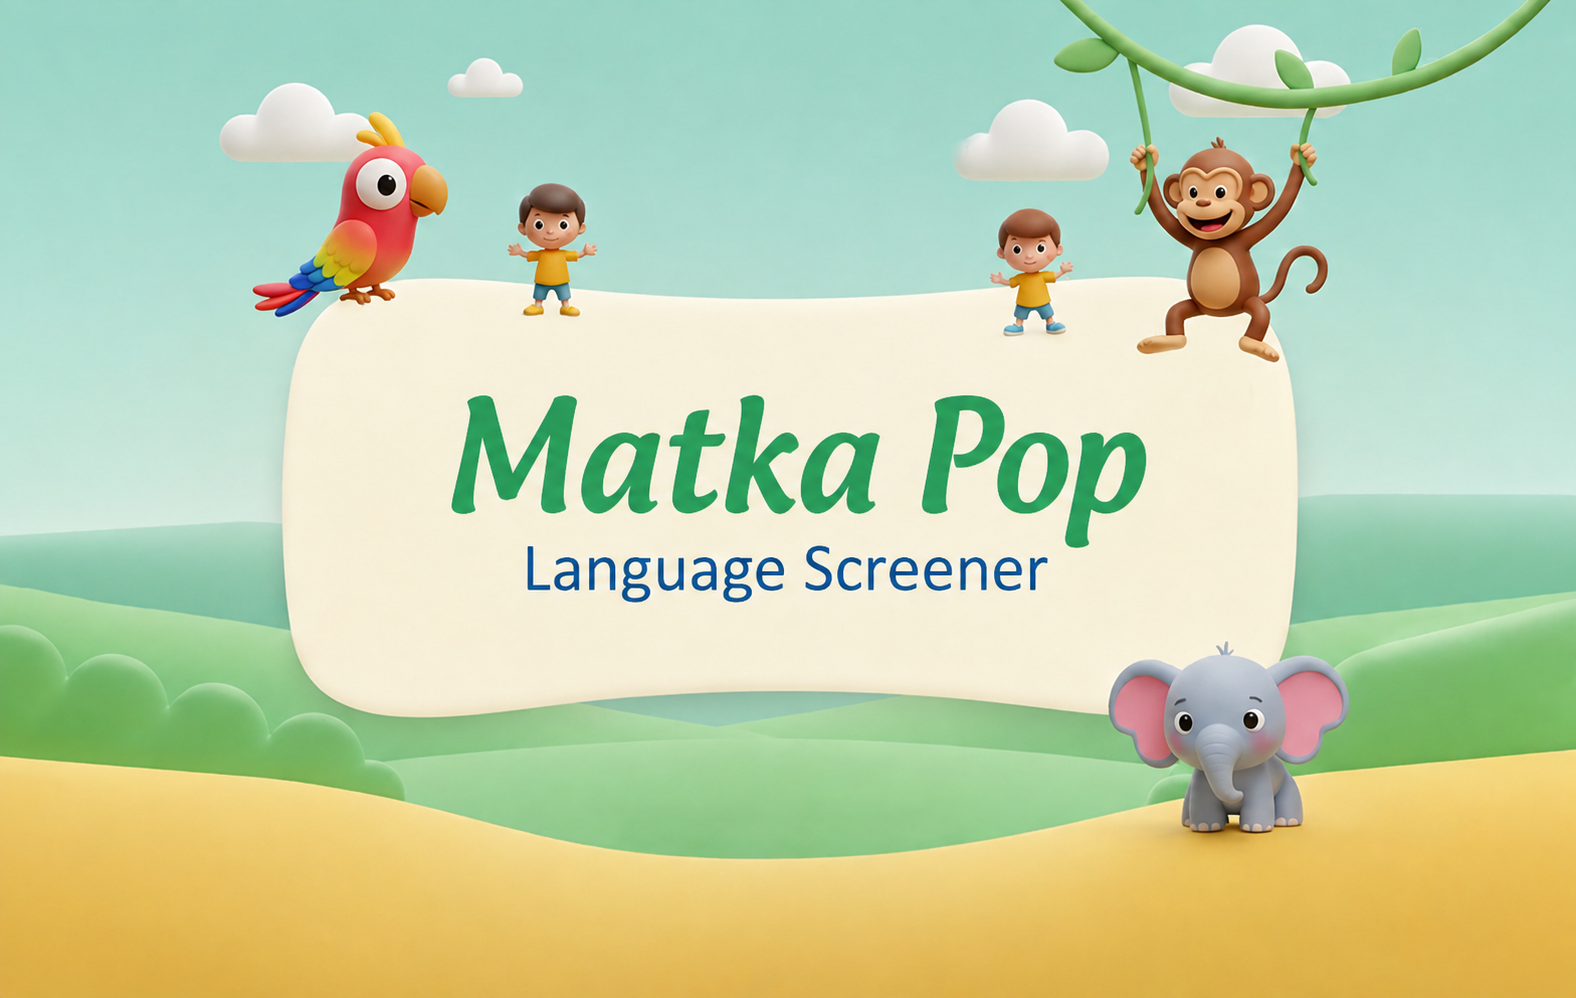
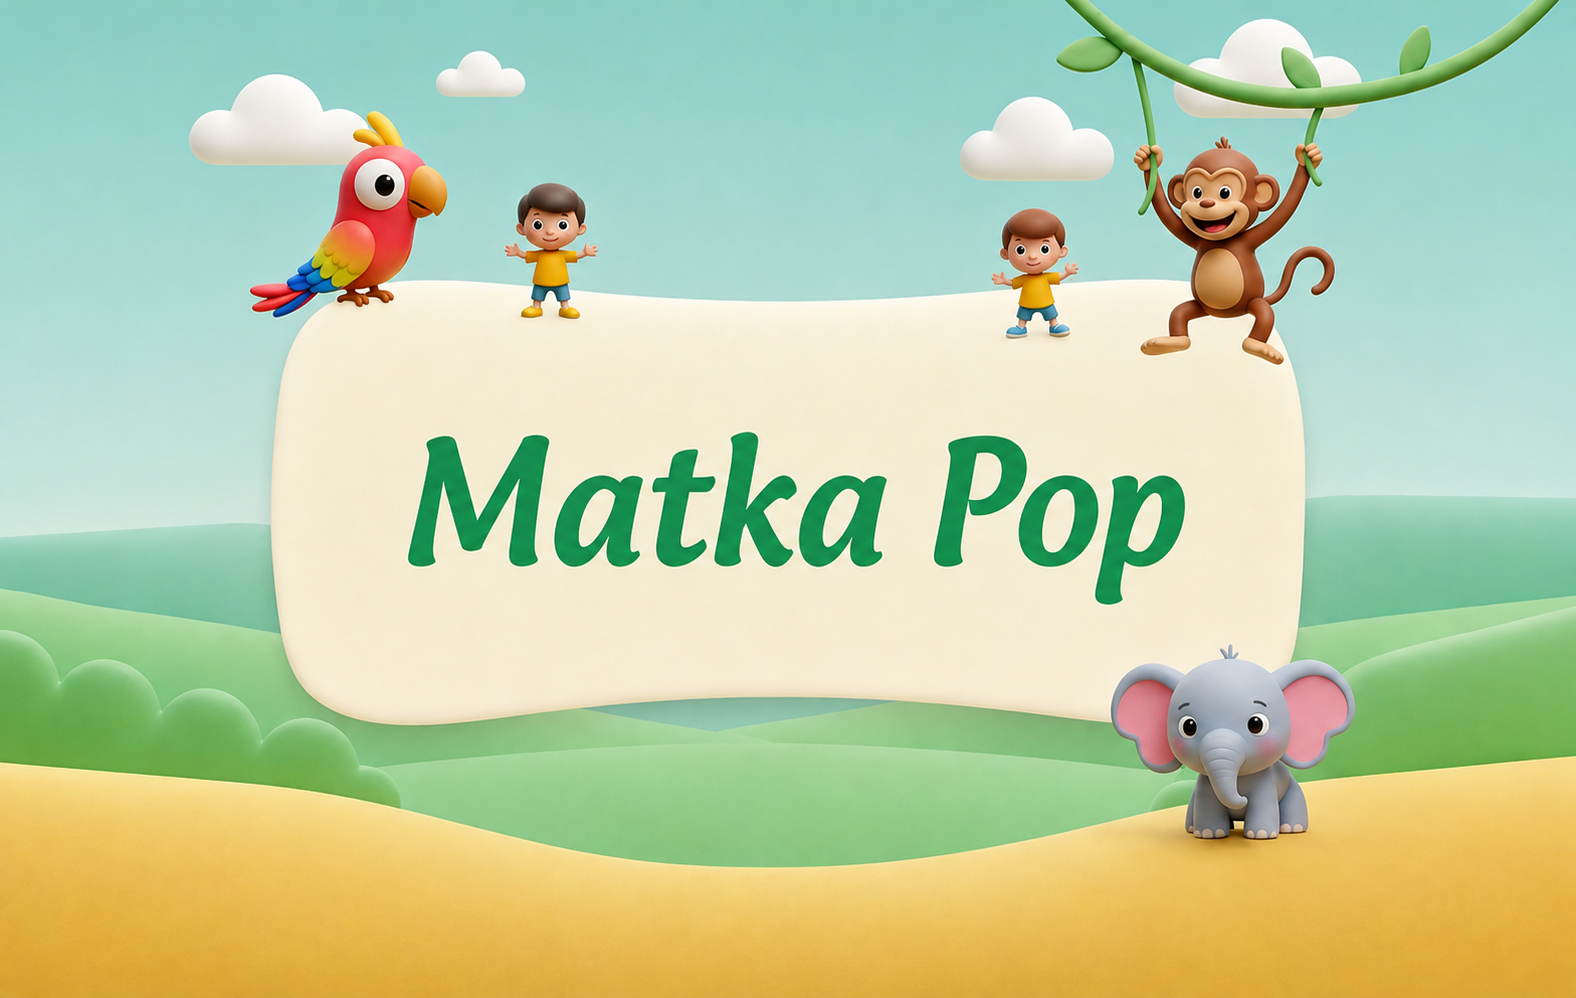
Cover image Updated

diff --git a/components/BreakAndSayWelcome.tsx b/components/BreakAndSayWelcome.tsx
@@ -8,7 +8,7 @@ export default function BreakAndSayWelcome({ onStart }: Props) {
   return (
     <div className="w-full h-full relative cursor-pointer" onClick={onStart}>
       <img
-        src="/images/cover-img.png"
+        src="/images/cover-img1.png"
         alt="Say Speech"
         className="w-full h-full object-cover pointer-events-none"
       />
